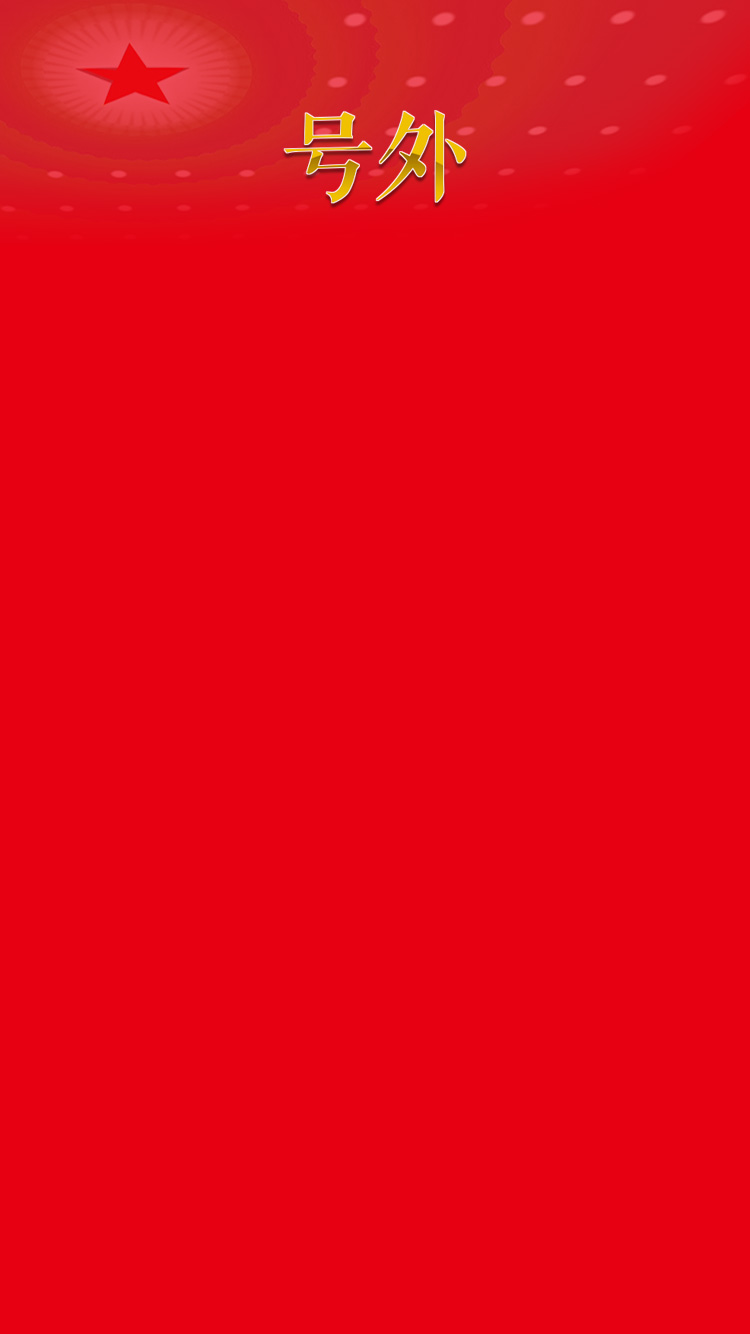
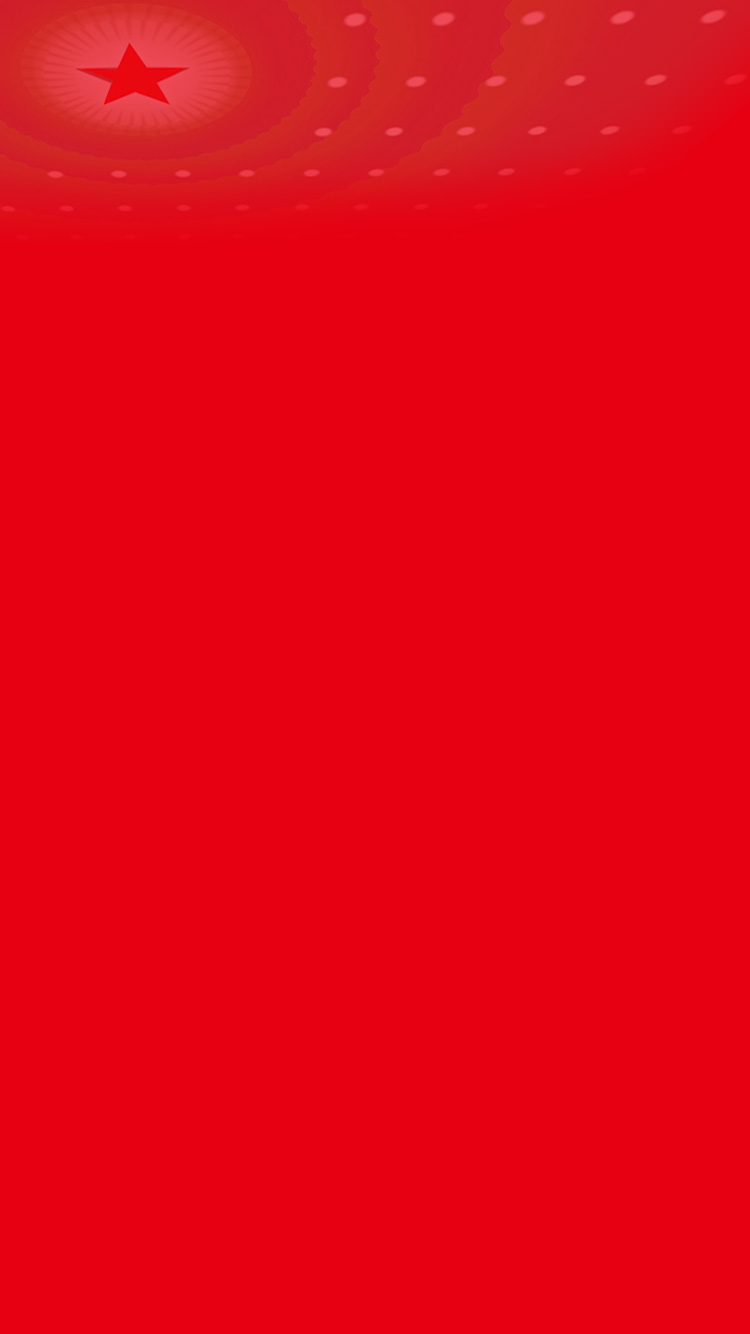
song

Changed region(s): [[0.368, 0.0615, 0.644, 0.1537]]

diff --git a/assets/js/index.js b/assets/js/index.js
@@ -12051,6 +12051,7 @@
 	// 								<span></span>
 	// 								<div style="padding-top:4vh;"></div>
 	// 								<div class="zmiti-brage">
+	// 									<img :src="imgs.haowai" alt="">
 	// 								</div>
 	// 								<div class="zmiti-haowai">
 	// 									<img :src="imgs.brage" alt="">
@@ -25071,7 +25072,7 @@
 /* 23 */
 /***/ (function(module, exports) {
 
-	module.exports = "\n\t<div :style=\"{background:createImg? 'url('+imgs.bg+') no-repeat center 100%':'transparent',backgroundSize:'200% 200%'}\" class=\"lt-full zmiti-index-main-ui \" :class=\"{'show':show}\" _v-2ee63e20=\"\">\n\n\t\t<transition name=\"zmiti-scale\" @after-enter=\"afterEnter\" _v-2ee63e20=\"\">\n\t\t    <div ref=\"createimgs\" :style=\"{background: 'url('+imgs.imgBg+') no-repeat center top',backgroundSize:'cover'}\" class=\"zmiti-createimg\" v-if=\"createImg\" _v-2ee63e20=\"\">\n\t\t\t\t<img :src=\"createImg\" alt=\"\" _v-2ee63e20=\"\">\n\t\t\t\t<div class=\"zmiti-border\" :class=\"{&quot;show&quot;:showBtns}\" _v-2ee63e20=\"\">\n\t\t\t\t\t<img :src=\"imgs.border\" _v-2ee63e20=\"\">\n\t\t\t\t</div>\n\t\t\t\t<div class=\"zmiti-border zmiti-border1\" :class=\"{&quot;show&quot;:showBtns}\" _v-2ee63e20=\"\">\n\t\t\t\t\t<img :src=\"imgs.border1\" _v-2ee63e20=\"\">\n\t\t\t\t</div>\n\t\t\t</div>\n\t\t  </transition>\n\t\t<div v-show=\"!createImg\" class=\"lt-full\" ref=\"page\" _v-2ee63e20=\"\">\n\t\t\t<div _v-2ee63e20=\"\">\n\t\t\t\t<div class=\"zmiti-index-main-content\" ref=\"zmiti-cache-page\" _v-2ee63e20=\"\">\n\t\t\t\t\t<section _v-2ee63e20=\"\">\n\t\t\t\t\t\t<div _v-2ee63e20=\"\">\n\t\t\t\t\t\t\t<img :src=\"imgs.wx\" v-if=\"!showCollect\" _v-2ee63e20=\"\">\n\t\t\t\t\t\t\t<p style=\"height: 1px;\" v-if=\"showCollect\" _v-2ee63e20=\"\"></p>\n\t\t\t\t\t\t\t<div :style=\"{background: 'url('+imgs.bg+') no-repeat center top',paddingTop:!showCollect?'2%':'2%',backgroundSize:'cover'}\" _v-2ee63e20=\"\">\n\t\t\t\t\t\t\t\t<span _v-2ee63e20=\"\"></span>\n\t\t\t\t\t\t\t\t<div style=\"padding-top:4vh;\" _v-2ee63e20=\"\"></div>\n\t\t\t\t\t\t\t\t<div class=\"zmiti-brage\" _v-2ee63e20=\"\">\n\t\t\t\t\t\t\t\t</div>\n\t\t\t\t\t\t\t\t<div class=\"zmiti-haowai\" _v-2ee63e20=\"\">\n\t\t\t\t\t\t\t\t\t<img :src=\"imgs.brage\" alt=\"\" _v-2ee63e20=\"\">\n\t\t\t\t\t\t\t\t</div>\n\t\t\t\t\t\t\t\t<div class=\"zmiti-news-C\" _v-2ee63e20=\"\">\n\t\t\t\t\t\t\t\t\t<h1 _v-2ee63e20=\"\">{{title}}</h1>\n\t\t\t\t\t\t\t\t\t<div class=\"zmiti-news\" _v-2ee63e20=\"\">\n\t\t\t\t\t\t\t\t\t\t<div v-for=\"c in newsContent\" _v-2ee63e20=\"\">{{c}}</div>\n\t\t\t\t\t\t\t\t\t</div>\n\t\t\t\t\t\t\t\t</div>\n\t\t\t\t\t\t\t\t<div class=\"zmiti-index-bottom\" _v-2ee63e20=\"\">\t\t\t\t\t\t\t\t\t\n\t\t\t\t\t\t\t\t\t<div class=\"zmiti-copyright\" _v-2ee63e20=\"\">\n\t\t\t\t\t\t\t\t\t\t<div class=\"zmiti-copyright-xinhua\" _v-2ee63e20=\"\">\t\t\t\t\t\t\t\t\t\t\t\n\t\t\t\t\t\t\t\t\t\t\t<img :src=\"imgs.logo\" alt=\"\" _v-2ee63e20=\"\">\n\t\t\t\t\t\t\t\t\t\t\t<div _v-2ee63e20=\"\">新华社客户端</div>\n\t\t\t\t\t\t\t\t\t\t</div>\n\t\t\t\t\t\t\t\t\t\t<div class=\"zmiti-work-pubdate\" _v-2ee63e20=\"\">\n\t\t\t\t\t\t\t\t\t\t\t\n\t\t\t\t\t\t\t\t\t\t\t\t<div _v-2ee63e20=\"\">{{date}}</div>\n\t\t\t\t\t\t\t\t\t\t\t\n\t\t\t\t\t\t\t\t\t\t</div>\t\t\t\t\t\t\t\t\t\t\n\t\t\t\t\t\t\t\t\t</div>\n\t\t\t\t\t\t\t\t\t\n\t\t\t\t\t\t\t\t</div>\n\t\t\t\t\t\t\t</div>\n\t\t\t\t\t\t</div>\n\t\t\t\t\t\t\n\t\t\t\t\t</section>\n\n\t\t\t\t\t<div class=\"zmiti-qrcode\" _v-2ee63e20=\"\">\n\t\t\t\t\t\t<section _v-2ee63e20=\"\"> \n\t\t\t\t\t\t\t<div _v-2ee63e20=\"\">\n\t\t\t\t\t\t\t\t<div _v-2ee63e20=\"\">我收藏了2018年两会号外</div>\n\t\t\t\t\t\t\t\t<div _v-2ee63e20=\"\">NO.{{randomPv}}号</div>\n\t\t\t\t\t\t\t</div>\n\t\t\t\t\t\t\t<div _v-2ee63e20=\"\">\n\t\t\t\t\t\t\t\t<img :src=\"imgs.qrcode\" @touchstart=\"starts\" _v-2ee63e20=\"\">\n\t\t\t\t\t\t\t</div>\n\t\t\t\t\t\t</section>\n\t\t\t\t\t</div>\n\t\t\t\t</div>\n\t\t\t\t<div class=\"wx-comments\" _v-2ee63e20=\"\">\n\t\t\t\t    <div class=\"wx-inner\" _v-2ee63e20=\"\">\n\t\t\t\t        <div class=\"comm-tips\" _v-2ee63e20=\"\">\n\t\t\t\t            <span _v-2ee63e20=\"\">评论墙</span>\n\t\t\t\t            <div class=\"clearfix\" _v-2ee63e20=\"\"></div>\n\t\t\t\t        </div>\n\t\t\t\t        <div class=\"wx-btn1\" _v-2ee63e20=\"\">\n\t\t\t                <span class=\"wx-btn-span\" @touchend=\"openDialog\" _v-2ee63e20=\"\">\n\t\t\t                    <span _v-2ee63e20=\"\">\n\t\t\t                        我要上墙\n\t\t\t                    </span>\n\t\t\t                    <i _v-2ee63e20=\"\"><img :src=\"imgs.edit\" alt=\"\" _v-2ee63e20=\"\"></i>\n\t\t\t                </span>\n\t\t\t\t        </div>\n\t\t\t\t        <div class=\"comm-inner\" _v-2ee63e20=\"\">\n\t\t\t\t            <ul id=\"wx-getmessagelist\" _v-2ee63e20=\"\">\n\t\t\t\t                <!--留言列表-->\n\t\t\t\t                <li v-for=\"(item,i) in commentList\" _v-2ee63e20=\"\">\n\t\t\t\t                \t\n\t\t\t\t                \t<div class=\"user-face\" _v-2ee63e20=\"\">\n\t\t\t\t                \t\t<img :src=\"imgs.logo\" _v-2ee63e20=\"\">\n\t\t\t\t                \t</div>\n\t\t\t\t                \t<div class=\"user-con\" _v-2ee63e20=\"\">\n\t\t\t\t                \t\t<div class=\"unames\" _v-2ee63e20=\"\">新华社网友\n\t\t\t\t                \t\t\t<div class=\"u-dz\" @touchend=\"like(item,i)\" _v-2ee63e20=\"\">\n\t\t\t\t                \t\t\t\t<i class=\"icon_praise_gray\" _v-2ee63e20=\"\">\n\t\t\t\t                \t\t\t\t\t<img :src=\"item.isLike?imgs.like1:imgs.like\" alt=\"\" _v-2ee63e20=\"\">\n\t\t\t\t                \t\t\t\t</i>\n\t\t\t\t                \t\t\t\t<span _v-2ee63e20=\"\">{{item.hymn}}</span>\n\t\t\t\t                \t\t\t\t<div class=\"zmiti-add\" :class=\"{'active':addIndex === i}\" _v-2ee63e20=\"\">+1</div>\n\t\t\t\t                \t\t\t</div>\n\t\t\t\t                \t\t</div>\n\t\t\t\t                \t\t<div class=\"utext\" _v-2ee63e20=\"\">{{item.content}}</div>\n\t\t\t\t                \t\t<div class=\"udates\" _v-2ee63e20=\"\">{{item.createtime}}</div>\n\t\t\t\t                \t</div>\n\t\t\t\t                </li>\n\t\t\t\t            </ul>\n\n\t\t\t\t            <div class=\"comm-tips\" _v-2ee63e20=\"\">\n\t\t\t\t                <span _v-2ee63e20=\"\">以上留言由新华社筛选后显示</span>\n\t\t\t\t                <div class=\"clearfix\" _v-2ee63e20=\"\"></div>\n\t\t\t\t            </div>\n\t\t\t\t            <div class=\"hr20\" _v-2ee63e20=\"\"></div>\n\t\t\t\t        </div>\n\t\t\t\t    </div>\n\n\t\t\t\t</div>\n\t\t\t</div>\n\t\t\t\n\t\t</div>\n\n\t\t<!--message-dialog-->\n\t\t<div id=\"wx-message-dialog\" v-if=\"showDialog\" _v-2ee63e20=\"\">\n\t\t    <div class=\"wx-weui-mask\" _v-2ee63e20=\"\"></div>\n\t\t    <div class=\"wx-weui-dialog\" _v-2ee63e20=\"\">\n\t\t        <div class=\"wx-weui-title\" _v-2ee63e20=\"\">2018年两会号外</div>\n\n\t\t        <div class=\"wx-weui-textarea\" _v-2ee63e20=\"\">\n\t\t            <textarea v-model=\"content\" placeholder=\"\" _v-2ee63e20=\"\"></textarea>\n\t\t        </div>\n\t\t        <div class=\"wx-weui-btn2\" _v-2ee63e20=\"\">\n\t\t            <div class=\"wx-weui-submit\" v-tap=\"submitData\" _v-2ee63e20=\"\">提交</div>\n\t\t        </div>\n\t\t    </div>\n\t\t</div>\n\n\t\t <div v-if=\"showLoading\" class=\"zmiti-createimg-loading lt-full \" :style=\"{background: 'url('+imgs.bg+') no-repeat center top',backgroundSize:'cover'}\" _v-2ee63e20=\"\">\n\t\t \t \t<div class=\"loading\" _v-2ee63e20=\"\">\n\t\t \t \t\t<span _v-2ee63e20=\"\"></span>\n\t\t\t        <span _v-2ee63e20=\"\"></span>\n\t\t\t        <span _v-2ee63e20=\"\"></span>\n\t\t\t        <span _v-2ee63e20=\"\"></span>\n\t\t\t        <span _v-2ee63e20=\"\"></span>\n\t\t\t        <label _v-2ee63e20=\"\">正在生成号外...</label>\n\t\t \t \t</div>\n\t\t </div>\n\n\t\t <div class=\"zmiti-collect\" @touchstart=\"isPress = true\" @touchend=\"collect\" :class=\"{&quot;press&quot;:isPress}\" v-if=\"showCollect &amp;&amp; !createImg\" _v-2ee63e20=\"\">\n\t\t\t<img :src=\"imgs.collectBtn\" alt=\"\" _v-2ee63e20=\"\">\n\t\t\t<span _v-2ee63e20=\"\">点击收藏</span>\n\t\t</div>\n\t\t\n\t\t<div v-if=\"showBtns &amp;&amp; !src\" class=\"zmiti-share-btns\" _v-2ee63e20=\"\">\n\t\t\t<div @touchend=\"restart\" @touchstart=\"seePress = true\" _v-2ee63e20=\"\">\n\t\t\t\t<div :class=\"{&quot;press&quot;:seePress}\" class=\"\" _v-2ee63e20=\"\">\n\t\t\t\t\t<img :src=\"imgs.collectBtn\" _v-2ee63e20=\"\">\n\t\t\t\t\t<span _v-2ee63e20=\"\">\n\t\t\t\t\t\t我再看看\n\t\t\t\t\t</span>\n\t\t\t\t</div>\n\t\t\t</div>\n\t\t\t<div @touchend=\"showMask\" @touchstart=\"sharePress = true\" :class=\"{&quot;press&quot;:sharePress}\" _v-2ee63e20=\"\">\n\t\t\t\t<img :src=\"imgs.collectBtn\" _v-2ee63e20=\"\">\n\t\t\t\t<span _v-2ee63e20=\"\">\n\t\t\t\t\t分享\n\t\t\t\t</span>\n\t\t\t</div>\n\t\t</div>\n\n\t\t<div v-if=\"showBtns &amp;&amp; src\" class=\"zmiti-share-btns zmiti-share-btns1\" _v-2ee63e20=\"\">\n\t\t\t<div @touchend=\"restart\" @touchstart=\"seePress = true\" :class=\"{&quot;press&quot;:seePress}\" _v-2ee63e20=\"\">\n\t\t\t\t<img :src=\"imgs.collectBtn\" _v-2ee63e20=\"\">\n\t\t\t\t<span _v-2ee63e20=\"\">阅读新华社号外</span>\n\t\t\t</div>\n\t\t</div>\n\n\t\t<div v-if=\"showMasks\" @touchstart=\"hideMask\" class=\"zmiti-mask\" :style=\"{background: 'url('+imgs.arrow1+') no-repeat center top',backgroundSize:'cover'}\" _v-2ee63e20=\"\">\n\t\t\t\n\t\t</div>\n\n\t\t<toast :msg=\"toastMsg\" _v-2ee63e20=\"\"></toast>\n\t\t<audio src=\"./assets/music/1.mp3\" ref=\"audio\" _v-2ee63e20=\"\"></audio>\n\t</div>\n";
+	module.exports = "\n\t<div :style=\"{background:createImg? 'url('+imgs.bg+') no-repeat center 100%':'transparent',backgroundSize:'200% 200%'}\" class=\"lt-full zmiti-index-main-ui \" :class=\"{'show':show}\" _v-2ee63e20=\"\">\n\n\t\t<transition name=\"zmiti-scale\" @after-enter=\"afterEnter\" _v-2ee63e20=\"\">\n\t\t    <div ref=\"createimgs\" :style=\"{background: 'url('+imgs.imgBg+') no-repeat center top',backgroundSize:'cover'}\" class=\"zmiti-createimg\" v-if=\"createImg\" _v-2ee63e20=\"\">\n\t\t\t\t<img :src=\"createImg\" alt=\"\" _v-2ee63e20=\"\">\n\t\t\t\t<div class=\"zmiti-border\" :class=\"{&quot;show&quot;:showBtns}\" _v-2ee63e20=\"\">\n\t\t\t\t\t<img :src=\"imgs.border\" _v-2ee63e20=\"\">\n\t\t\t\t</div>\n\t\t\t\t<div class=\"zmiti-border zmiti-border1\" :class=\"{&quot;show&quot;:showBtns}\" _v-2ee63e20=\"\">\n\t\t\t\t\t<img :src=\"imgs.border1\" _v-2ee63e20=\"\">\n\t\t\t\t</div>\n\t\t\t</div>\n\t\t  </transition>\n\t\t<div v-show=\"!createImg\" class=\"lt-full\" ref=\"page\" _v-2ee63e20=\"\">\n\t\t\t<div _v-2ee63e20=\"\">\n\t\t\t\t<div class=\"zmiti-index-main-content\" ref=\"zmiti-cache-page\" _v-2ee63e20=\"\">\n\t\t\t\t\t<section _v-2ee63e20=\"\">\n\t\t\t\t\t\t<div _v-2ee63e20=\"\">\n\t\t\t\t\t\t\t<img :src=\"imgs.wx\" v-if=\"!showCollect\" _v-2ee63e20=\"\">\n\t\t\t\t\t\t\t<p style=\"height: 1px;\" v-if=\"showCollect\" _v-2ee63e20=\"\"></p>\n\t\t\t\t\t\t\t<div :style=\"{background: 'url('+imgs.bg+') no-repeat center top',paddingTop:!showCollect?'2%':'2%',backgroundSize:'cover'}\" _v-2ee63e20=\"\">\n\t\t\t\t\t\t\t\t<span _v-2ee63e20=\"\"></span>\n\t\t\t\t\t\t\t\t<div style=\"padding-top:4vh;\" _v-2ee63e20=\"\"></div>\n\t\t\t\t\t\t\t\t<div class=\"zmiti-brage\" _v-2ee63e20=\"\">\n\t\t\t\t\t\t\t\t\t<img :src=\"imgs.haowai\" alt=\"\" _v-2ee63e20=\"\">\n\t\t\t\t\t\t\t\t</div>\n\t\t\t\t\t\t\t\t<div class=\"zmiti-haowai\" _v-2ee63e20=\"\">\n\t\t\t\t\t\t\t\t\t<img :src=\"imgs.brage\" alt=\"\" _v-2ee63e20=\"\">\n\t\t\t\t\t\t\t\t</div>\n\t\t\t\t\t\t\t\t<div class=\"zmiti-news-C\" _v-2ee63e20=\"\">\n\t\t\t\t\t\t\t\t\t<h1 _v-2ee63e20=\"\">{{title}}</h1>\n\t\t\t\t\t\t\t\t\t<div class=\"zmiti-news\" _v-2ee63e20=\"\">\n\t\t\t\t\t\t\t\t\t\t<div v-for=\"c in newsContent\" _v-2ee63e20=\"\">{{c}}</div>\n\t\t\t\t\t\t\t\t\t</div>\n\t\t\t\t\t\t\t\t</div>\n\t\t\t\t\t\t\t\t<div class=\"zmiti-index-bottom\" _v-2ee63e20=\"\">\t\t\t\t\t\t\t\t\t\n\t\t\t\t\t\t\t\t\t<div class=\"zmiti-copyright\" _v-2ee63e20=\"\">\n\t\t\t\t\t\t\t\t\t\t<div class=\"zmiti-copyright-xinhua\" _v-2ee63e20=\"\">\t\t\t\t\t\t\t\t\t\t\t\n\t\t\t\t\t\t\t\t\t\t\t<img :src=\"imgs.logo\" alt=\"\" _v-2ee63e20=\"\">\n\t\t\t\t\t\t\t\t\t\t\t<div _v-2ee63e20=\"\">新华社客户端</div>\n\t\t\t\t\t\t\t\t\t\t</div>\n\t\t\t\t\t\t\t\t\t\t<div class=\"zmiti-work-pubdate\" _v-2ee63e20=\"\">\n\t\t\t\t\t\t\t\t\t\t\t\n\t\t\t\t\t\t\t\t\t\t\t\t<div _v-2ee63e20=\"\">{{date}}</div>\n\t\t\t\t\t\t\t\t\t\t\t\n\t\t\t\t\t\t\t\t\t\t</div>\t\t\t\t\t\t\t\t\t\t\n\t\t\t\t\t\t\t\t\t</div>\n\t\t\t\t\t\t\t\t\t\n\t\t\t\t\t\t\t\t</div>\n\t\t\t\t\t\t\t</div>\n\t\t\t\t\t\t</div>\n\t\t\t\t\t\t\n\t\t\t\t\t</section>\n\n\t\t\t\t\t<div class=\"zmiti-qrcode\" _v-2ee63e20=\"\">\n\t\t\t\t\t\t<section _v-2ee63e20=\"\"> \n\t\t\t\t\t\t\t<div _v-2ee63e20=\"\">\n\t\t\t\t\t\t\t\t<div _v-2ee63e20=\"\">我收藏了2018年两会号外</div>\n\t\t\t\t\t\t\t\t<div _v-2ee63e20=\"\">NO.{{randomPv}}号</div>\n\t\t\t\t\t\t\t</div>\n\t\t\t\t\t\t\t<div _v-2ee63e20=\"\">\n\t\t\t\t\t\t\t\t<img :src=\"imgs.qrcode\" @touchstart=\"starts\" _v-2ee63e20=\"\">\n\t\t\t\t\t\t\t</div>\n\t\t\t\t\t\t</section>\n\t\t\t\t\t</div>\n\t\t\t\t</div>\n\t\t\t\t<div class=\"wx-comments\" _v-2ee63e20=\"\">\n\t\t\t\t    <div class=\"wx-inner\" _v-2ee63e20=\"\">\n\t\t\t\t        <div class=\"comm-tips\" _v-2ee63e20=\"\">\n\t\t\t\t            <span _v-2ee63e20=\"\">评论墙</span>\n\t\t\t\t            <div class=\"clearfix\" _v-2ee63e20=\"\"></div>\n\t\t\t\t        </div>\n\t\t\t\t        <div class=\"wx-btn1\" _v-2ee63e20=\"\">\n\t\t\t                <span class=\"wx-btn-span\" @touchend=\"openDialog\" _v-2ee63e20=\"\">\n\t\t\t                    <span _v-2ee63e20=\"\">\n\t\t\t                        我要上墙\n\t\t\t                    </span>\n\t\t\t                    <i _v-2ee63e20=\"\"><img :src=\"imgs.edit\" alt=\"\" _v-2ee63e20=\"\"></i>\n\t\t\t                </span>\n\t\t\t\t        </div>\n\t\t\t\t        <div class=\"comm-inner\" _v-2ee63e20=\"\">\n\t\t\t\t            <ul id=\"wx-getmessagelist\" _v-2ee63e20=\"\">\n\t\t\t\t                <!--留言列表-->\n\t\t\t\t                <li v-for=\"(item,i) in commentList\" _v-2ee63e20=\"\">\n\t\t\t\t                \t\n\t\t\t\t                \t<div class=\"user-face\" _v-2ee63e20=\"\">\n\t\t\t\t                \t\t<img :src=\"imgs.logo\" _v-2ee63e20=\"\">\n\t\t\t\t                \t</div>\n\t\t\t\t                \t<div class=\"user-con\" _v-2ee63e20=\"\">\n\t\t\t\t                \t\t<div class=\"unames\" _v-2ee63e20=\"\">新华社网友\n\t\t\t\t                \t\t\t<div class=\"u-dz\" @touchend=\"like(item,i)\" _v-2ee63e20=\"\">\n\t\t\t\t                \t\t\t\t<i class=\"icon_praise_gray\" _v-2ee63e20=\"\">\n\t\t\t\t                \t\t\t\t\t<img :src=\"item.isLike?imgs.like1:imgs.like\" alt=\"\" _v-2ee63e20=\"\">\n\t\t\t\t                \t\t\t\t</i>\n\t\t\t\t                \t\t\t\t<span _v-2ee63e20=\"\">{{item.hymn}}</span>\n\t\t\t\t                \t\t\t\t<div class=\"zmiti-add\" :class=\"{'active':addIndex === i}\" _v-2ee63e20=\"\">+1</div>\n\t\t\t\t                \t\t\t</div>\n\t\t\t\t                \t\t</div>\n\t\t\t\t                \t\t<div class=\"utext\" _v-2ee63e20=\"\">{{item.content}}</div>\n\t\t\t\t                \t\t<div class=\"udates\" _v-2ee63e20=\"\">{{item.createtime}}</div>\n\t\t\t\t                \t</div>\n\t\t\t\t                </li>\n\t\t\t\t            </ul>\n\n\t\t\t\t            <div class=\"comm-tips\" _v-2ee63e20=\"\">\n\t\t\t\t                <span _v-2ee63e20=\"\">以上留言由新华社筛选后显示</span>\n\t\t\t\t                <div class=\"clearfix\" _v-2ee63e20=\"\"></div>\n\t\t\t\t            </div>\n\t\t\t\t            <div class=\"hr20\" _v-2ee63e20=\"\"></div>\n\t\t\t\t        </div>\n\t\t\t\t    </div>\n\n\t\t\t\t</div>\n\t\t\t</div>\n\t\t\t\n\t\t</div>\n\n\t\t<!--message-dialog-->\n\t\t<div id=\"wx-message-dialog\" v-if=\"showDialog\" _v-2ee63e20=\"\">\n\t\t    <div class=\"wx-weui-mask\" _v-2ee63e20=\"\"></div>\n\t\t    <div class=\"wx-weui-dialog\" _v-2ee63e20=\"\">\n\t\t        <div class=\"wx-weui-title\" _v-2ee63e20=\"\">2018年两会号外</div>\n\n\t\t        <div class=\"wx-weui-textarea\" _v-2ee63e20=\"\">\n\t\t            <textarea v-model=\"content\" placeholder=\"\" _v-2ee63e20=\"\"></textarea>\n\t\t        </div>\n\t\t        <div class=\"wx-weui-btn2\" _v-2ee63e20=\"\">\n\t\t            <div class=\"wx-weui-submit\" v-tap=\"submitData\" _v-2ee63e20=\"\">提交</div>\n\t\t        </div>\n\t\t    </div>\n\t\t</div>\n\n\t\t <div v-if=\"showLoading\" class=\"zmiti-createimg-loading lt-full \" :style=\"{background: 'url('+imgs.bg+') no-repeat center top',backgroundSize:'cover'}\" _v-2ee63e20=\"\">\n\t\t \t \t<div class=\"loading\" _v-2ee63e20=\"\">\n\t\t \t \t\t<span _v-2ee63e20=\"\"></span>\n\t\t\t        <span _v-2ee63e20=\"\"></span>\n\t\t\t        <span _v-2ee63e20=\"\"></span>\n\t\t\t        <span _v-2ee63e20=\"\"></span>\n\t\t\t        <span _v-2ee63e20=\"\"></span>\n\t\t\t        <label _v-2ee63e20=\"\">正在生成号外...</label>\n\t\t \t \t</div>\n\t\t </div>\n\n\t\t <div class=\"zmiti-collect\" @touchstart=\"isPress = true\" @touchend=\"collect\" :class=\"{&quot;press&quot;:isPress}\" v-if=\"showCollect &amp;&amp; !createImg\" _v-2ee63e20=\"\">\n\t\t\t<img :src=\"imgs.collectBtn\" alt=\"\" _v-2ee63e20=\"\">\n\t\t\t<span _v-2ee63e20=\"\">点击收藏</span>\n\t\t</div>\n\t\t\n\t\t<div v-if=\"showBtns &amp;&amp; !src\" class=\"zmiti-share-btns\" _v-2ee63e20=\"\">\n\t\t\t<div @touchend=\"restart\" @touchstart=\"seePress = true\" _v-2ee63e20=\"\">\n\t\t\t\t<div :class=\"{&quot;press&quot;:seePress}\" class=\"\" _v-2ee63e20=\"\">\n\t\t\t\t\t<img :src=\"imgs.collectBtn\" _v-2ee63e20=\"\">\n\t\t\t\t\t<span _v-2ee63e20=\"\">\n\t\t\t\t\t\t我再看看\n\t\t\t\t\t</span>\n\t\t\t\t</div>\n\t\t\t</div>\n\t\t\t<div @touchend=\"showMask\" @touchstart=\"sharePress = true\" :class=\"{&quot;press&quot;:sharePress}\" _v-2ee63e20=\"\">\n\t\t\t\t<img :src=\"imgs.collectBtn\" _v-2ee63e20=\"\">\n\t\t\t\t<span _v-2ee63e20=\"\">\n\t\t\t\t\t分享\n\t\t\t\t</span>\n\t\t\t</div>\n\t\t</div>\n\n\t\t<div v-if=\"showBtns &amp;&amp; src\" class=\"zmiti-share-btns zmiti-share-btns1\" _v-2ee63e20=\"\">\n\t\t\t<div @touchend=\"restart\" @touchstart=\"seePress = true\" :class=\"{&quot;press&quot;:seePress}\" _v-2ee63e20=\"\">\n\t\t\t\t<img :src=\"imgs.collectBtn\" _v-2ee63e20=\"\">\n\t\t\t\t<span _v-2ee63e20=\"\">阅读新华社号外</span>\n\t\t\t</div>\n\t\t</div>\n\n\t\t<div v-if=\"showMasks\" @touchstart=\"hideMask\" class=\"zmiti-mask\" :style=\"{background: 'url('+imgs.arrow1+') no-repeat center top',backgroundSize:'cover'}\" _v-2ee63e20=\"\">\n\t\t\t\n\t\t</div>\n\n\t\t<toast :msg=\"toastMsg\" _v-2ee63e20=\"\"></toast>\n\t\t<audio src=\"./assets/music/1.mp3\" ref=\"audio\" _v-2ee63e20=\"\"></audio>\n\t</div>\n";
 
 /***/ }),
 /* 24 */

diff --git a/components/index/index.vue b/components/index/index.vue
@@ -25,6 +25,7 @@
 								<span></span>
 								<div style="padding-top:4vh;"></div>
 								<div class="zmiti-brage">
+									<img :src="imgs.haowai" alt="">
 								</div>
 								<div class="zmiti-haowai">
 									<img :src="imgs.brage" alt="">
